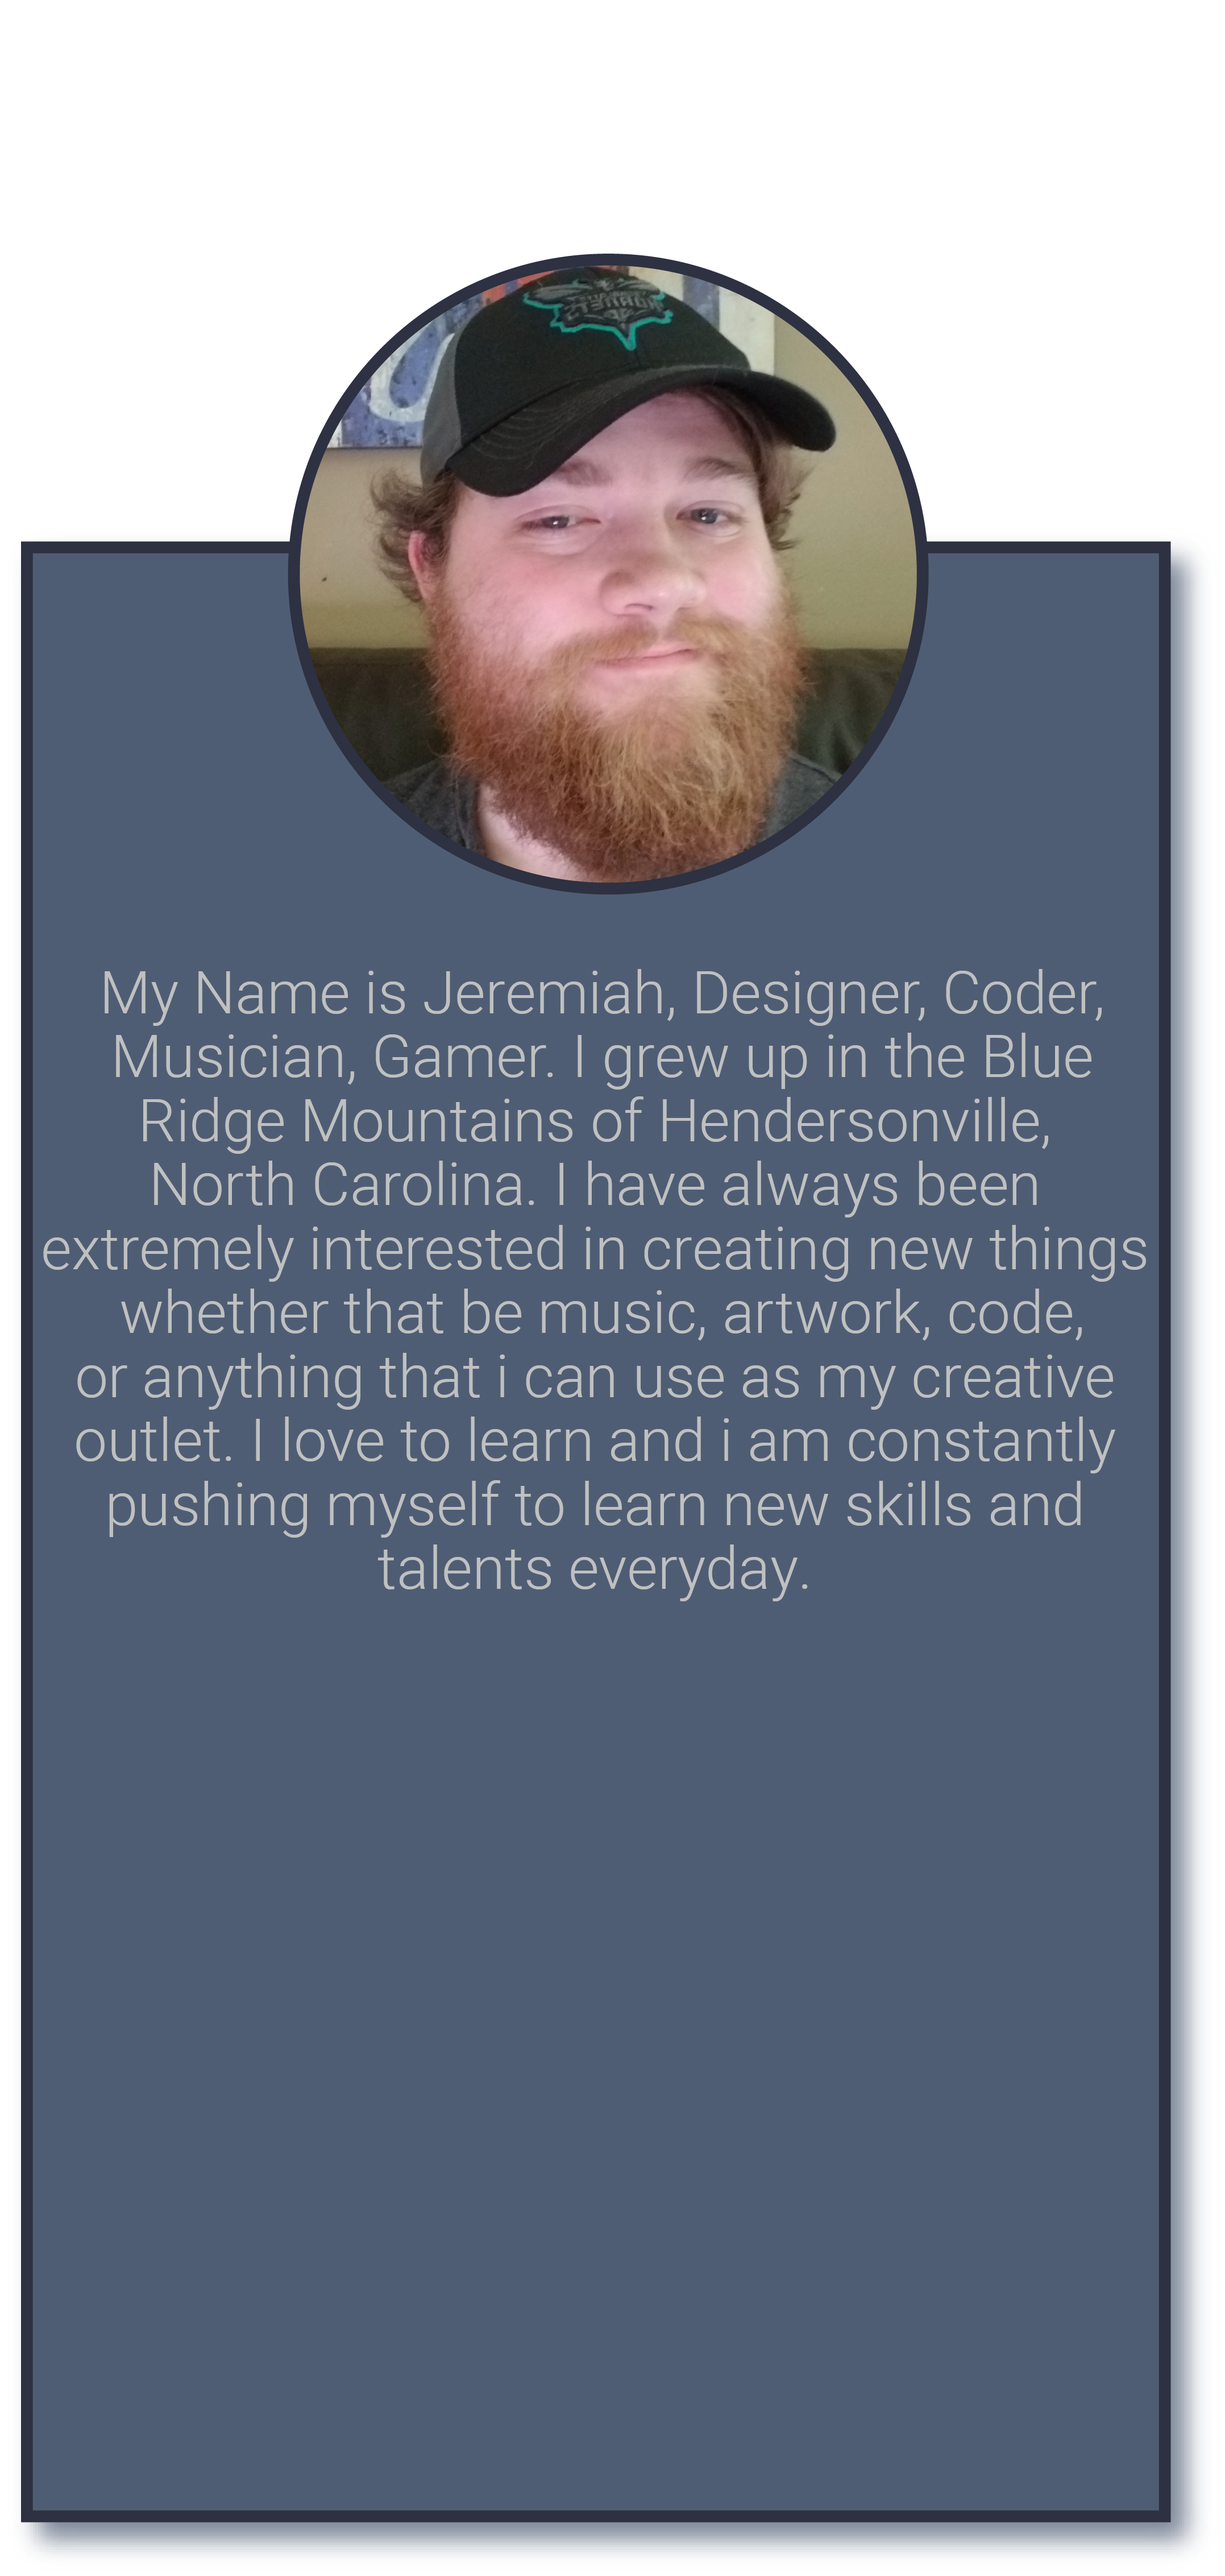
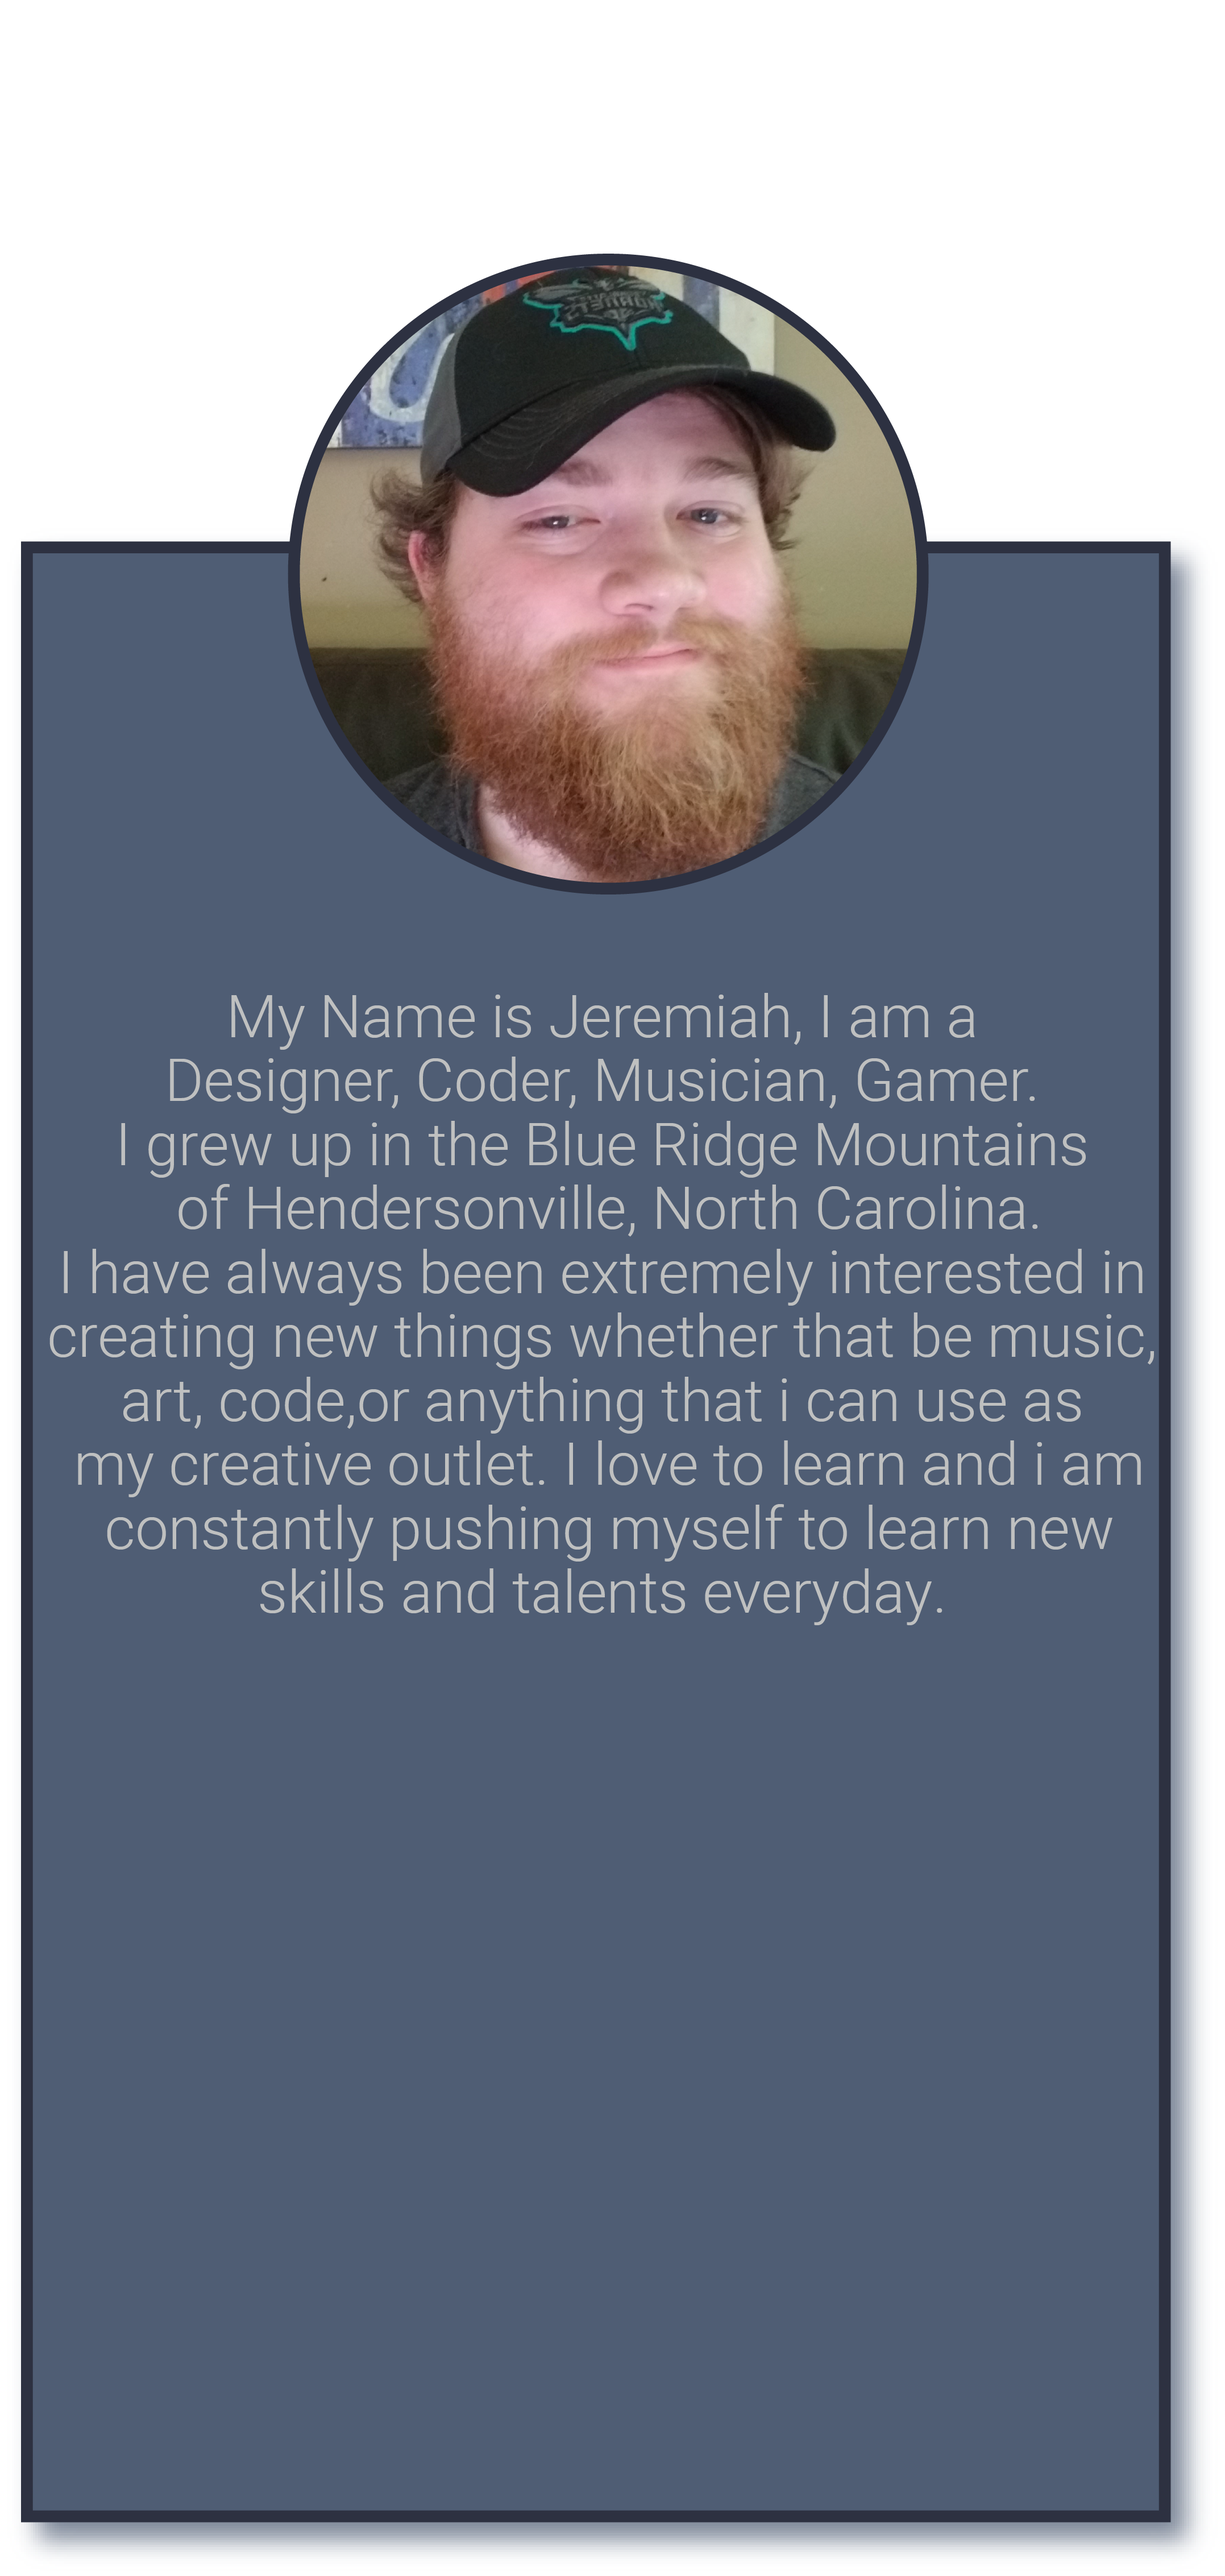
added more info on about page. Still need to work on projects page

Changed region(s): [[0.0311, 0.3735, 0.9327, 0.6225]]

diff --git a/index.html b/index.html
@@ -74,9 +74,9 @@
 
     <div class="two" >
         <div id="infoBoxes" class="row" >
-            <div id="leftBox" class="col-4"><img class="outsideBoxes" src="images/BioBox.png" alt="Bio Box" height="650" width="300" ></div>
-            <div id="midBox" class="col-4"><img class="insideBoxes" src="images/Bio.png" alt="Bio Box" height="700" width="300"></div>
-            <div id="rightBox" class="col-4"><img class="outsideBoxes" src="images/BioBox.png" alt="Bio Box" height="650" width="300" ></div>
+            <div id="leftBox" class="col-4"><img class="outsideBoxes" src="images/hobbies.png" alt="Bio Box" height="650" width="300" ></div>
+            <div id="midBox" class="col-4"><img class="insideBoxes" src="images/Bio.png" alt="Bio Box" height="650" width="300"></div>
+            <div id="rightBox" class="col-4"><img class="outsideBoxes" src="images/skills.png" alt="Bio Box" height="650" width="300" ></div>
         </div>
     </div>
 
@@ -131,7 +131,7 @@
                     </div>
             <div class="col-5 orangeBox">
                 <div>
-                        <img data-tilt src="./images/projects.png" alt="projects" height="75" width="300">
+                        <img data-tilt src="./images/projects.png" alt="projects" height="60" width="300">
                 </div>
                 <div>
                     <img src="./images/orangeBox.png" alt="InitialsLogo" height="600" width="400">
